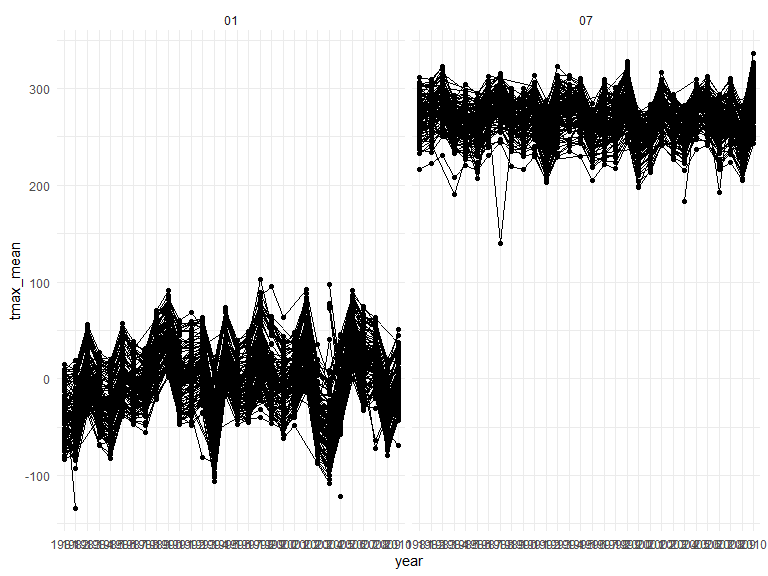
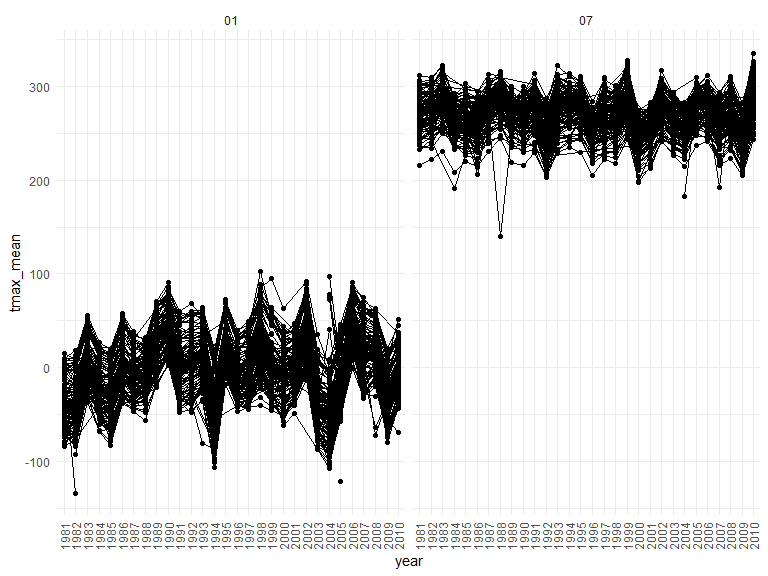
rotate x-axis lables

diff --git a/hw3_rmd.md b/hw3_rmd.md
@@ -272,6 +272,11 @@ plot_1 =
   summarize(tmax_mean = mean(tmax_F,na.rm = TRUE, color = id)) %>%
   ggplot(aes(x = year, y = tmax_mean,group = id)) +
   geom_point() + geom_path() +
+  theme(axis.text.x = element_text(
+    angle = 90,
+    vjust = 0.5,
+    hjust = 1
+  ))+
   facet_grid( ~ month)
 ```
 
